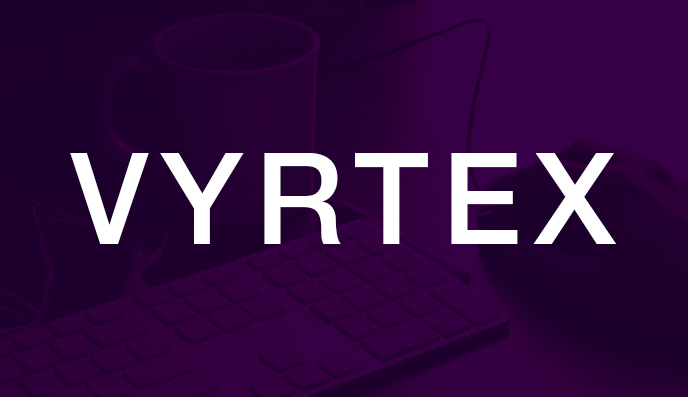
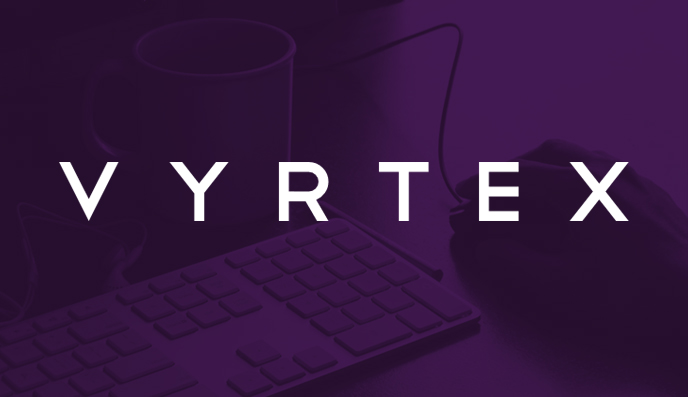
Updated bio, external links, and new Vyrtex image

diff --git a/index.html b/index.html
@@ -45,10 +45,10 @@
 					</nav>
 					<footer>
 						<ul class="icons">
-							<li><a href="https://twitter.com/dilipsrajan" class="icon fa-twitter"><span class="label">Twitter</span></a></li>
-							<li><a href="https://www.linkedin.com/in/dilipsrajan" class="icon fa-linkedin"><span class="label">LinkedIn</span></a></li>
-							<li><a href="https://github.com/diliprajan" class="icon fa-github"><span class="label">Github</span></a></li>
-							<li><a href="mailto:diliprajan.gfx@gmail.com" class="icon fa-envelope"><span class="label">Email</span></a></li>
+							<li><a href="https://twitter.com/dilipsrajan" class="icon fa-twitter" target="_blank"><span class="label">Twitter</span></a></li>
+							<li><a href="https://www.linkedin.com/in/dilipsrajan" class="icon fa-linkedin" target="_blank"><span class="label">LinkedIn</span></a></li>
+							<li><a href="https://github.com/diliprajan" class="icon fa-github" target="_blank"><span class="label">Github</span></a></li>
+							<li><a href="mailto:diliprajan.gfx@gmail.com" class="icon fa-envelope" target="_blank"><span class="label">Email</span></a></li>
 						</ul>
 					</footer>
 				</section>
@@ -62,6 +62,7 @@
 								<!--<header class="major">
 									<h2>Dilip Rajan</h2>
 								</header>-->
+								<!--
 								<div id='hx1'>Student</div>
 								<p>Right now, I'm finishing my last semester at the University of Pennyslvania studying entrepreneurship, marketing, and computer science.<br>
 
@@ -69,7 +70,15 @@
 								I'm currently the President of <a href='http://www.pennmasala.com/'><b>Penn Masala</b></a>, the world's first and premier South Asian a cappella group. Running the group is much like running a business: we regularly go on tour across the U.S. and abroad, manage 50,000 fans on Facebook, and consistently release new music, albums, and videos for our global fanbase. Recently, we performed for an audience of 30,000 at the Indian International Film Awards (the Bollywood Oscars) and are eagerly awaiting our Hollywood debut with a feature in the upcoming movie, <em>Pitch Perfect 2</em>.<br><br>
 
 								<div id='hx1'>Entrepreneur</div>
-								I'm working on <b>Vyrtex</b> with <a href='https://twitter.com/tculliver'>@tculliver</a> - we're creating a platform to improve the way people can discover, consume, and share articles and other media content that they love. We've conducted research, gathered data from a beta test, and are planning to launch the first public version of the product in February.<br><br>
+								I'm working on <b>Vyrtex</b> with <a href='https://twitter.com/tculliver'>@tculliver</a> - we're creating a platform to improve the way people can discover, consume, and share articles and other media content that they love. We've conducted research, gathered data from a beta test, and are planning to launch the first public version of the product in February.<br><br>-->
+								<div id='hx1'>About Me</div>
+								<br>
+								I'm currently working on <a href="http://www.vyrtex.com/" target="_blank">Vyrtex</a> — we're building the first place people will go to save, share, and discover the best articles on the web. (think of it like Pinterest, but for articles).<br>
+								<br>
+								Previously, I was the President of <a href="http://www.pennmasala.com/" target="_blank">Penn Masala</a>, a world-renowned South Asian a cappella group.<br>
+								<br>
+								I graduated from the Wharton School at University of Pennsylvania last May, where I took classes focused on entrepreneurship, product design, computer science, marketing, and operations. <br>
+								<br>
 							</div>
 						</section>
 
@@ -77,34 +86,34 @@
 						<section id="two">
 							<div class="container">
 								<div id='hx1'>Projects</div><br>
-								<p>I like to build and create new things - here's what I've worked on lately:</p>
+								<p>I love to build and create — here's what I've worked on lately:</p>
 								<div class="features">
 									<article>
-										<a href="#" class="image"><img src="images/Vyrtex.jpg" alt="" /></a>
+										<a href="http://www.vyrtex.com/" class="image" target="_blank"><img src="images/Vyrtex.jpg" alt="" /></a>
 										<div class="inner">
 											<h4>Vyrtex</h4>
-											<p>A platform to discover, consume, and share content that you are passionate about. Launching soon!</p>
+											<p>A social network to save, share, and discover the best articles on the web with your friends!</p>
 										</div>
 									</article>
 									<article>
-										<a href="#" class="image"><img src="images/Soundscapes.jpg" alt="" /></a>
+										<a href="https://github.com/alokedesai/Soundscape" class="image" target="_blank"><img src="images/Soundscapes.jpg" alt="" /></a>
 										<div class="inner">
 											<h4>Soundscapes</h4>
 											<p>Partnered with <a href='https://twitter.com/alokedesai'>@alokedesai</a> to build a multi-platform mobile app that plays music by artists who are originally from your current location.<br><em>Winner of the 1st place Microsoft Prize at the Fall 2014 PennApps Hackathon.</em></p>
 										</div>
 									</article>
 									<article>
-										<a href="#" class="image"><img src="images/Rapgenii.jpg" alt="" /></a>
+										<a href="http://www.rapgenii.com/" class="image" target="_blank"><img src="images/Rapgenii.jpg" alt="" /></a>
 										<div class="inner">
 											<h4>RapGenii</h4>
 											<p>A social platform enabling people to work together to create rap lyrics. Built for a class project with <a href='https://twitter.com/sclarawu'>@sclarawu</a> and <a href='https://twitter.com/VonDerpenberg'>@VonDerpenberg</a></p>
 										</div>
 									</article>
 									<article>
-										<a href="#" class="image"><img src="images/EoM.jpg" alt="" /></a>
+										<a href="https://www.youtube.com/watch?v=lErtjguuvSw" class="image" target="_blank"><img src="images/EoM.jpg" alt="" /></a>
 										<div class="inner">
 											<h4>Evolution of Bollywood Music</h4>
-											<p>Led the creation and marketing of a viral music video highlighting Bollywood classics over the ages. Reached 1,000,000 views in 10 days and led to a performance at the Indian International Film Awards for an audience of 30,000.</p>
+											<p>Led the creation and marketing of a viral music video highlighting Bollywood classics over the ages. Reached 1,000,000 views in 10 days and led to a performance at the Indian International Film Awards for a live audience of 30,000.</p>
 										</div>
 									</article>
 								</div>
@@ -129,7 +138,7 @@
 								<br><br><br>
 
 								<h4>Music</h4>
-								<p>These instrumental pieces were arranged and played with digital instruments and samples:</p>
+								<p>These instrumental pieces were arranged and played with digital instruments and samples. (new music coming soon!)</p>
 								<iframe width="100%" height="450" scrolling="no" frameborder="no" src="https://w.soundcloud.com/player/?url=https%3A//api.soundcloud.com/playlists/245584&amp;color=ff5500&amp;auto_play=false&amp;hide_related=false&amp;show_comments=true&amp;show_user=true&amp;show_reposts=false"></iframe>
 							</div>
 						</section>
